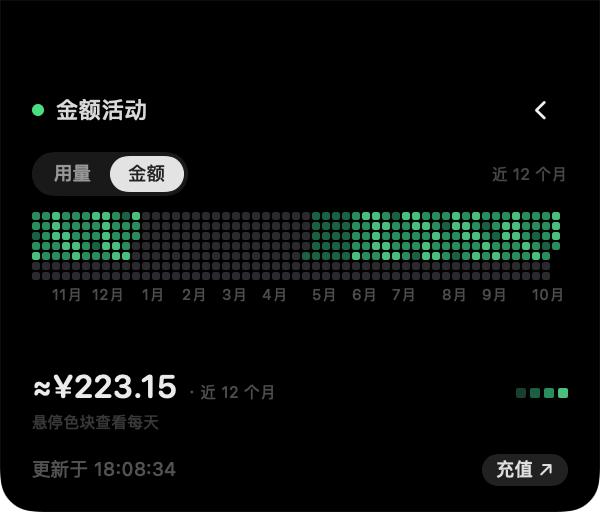
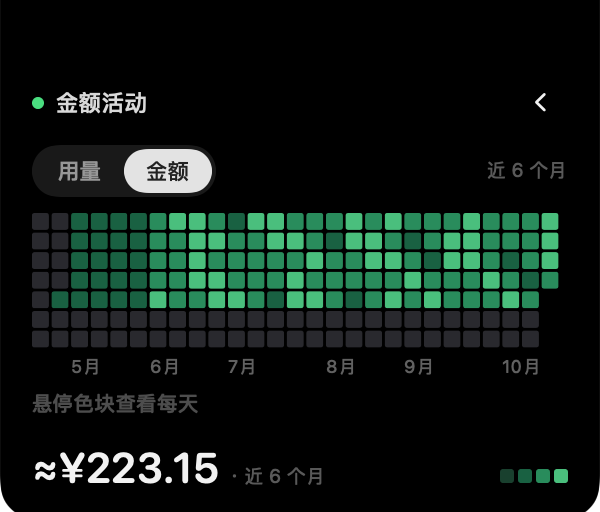
ui: 日历改为近 6 个月（27 周）+ 更大字号，修复底部溢出

diff --git a/Sources/Views.swift b/Sources/Views.swift
@@ -237,8 +237,12 @@ struct BalanceCard: View {
             } else {
                 balanceBody
             }
-            Spacer(minLength: 6)
-            footer
+            if state.showCalendar {
+                Spacer(minLength: 0)
+            } else {
+                Spacer(minLength: 6)
+                footer
+            }
         }
         .padding(.horizontal, 16)
         .padding(.top, chrome.topInset + 10)
@@ -301,9 +305,9 @@ struct BalanceCard: View {
             HStack(spacing: 6) {
                 metricToggle
                 Spacer(minLength: 0)
-                Text("近 12 个月")
-                    .font(.system(size: 8))
-                    .foregroundStyle(.white.opacity(0.28))
+                Text("近 6 个月")
+                    .font(.system(size: 9.5))
+                    .foregroundStyle(.white.opacity(0.35))
             }
             .padding(.top, 8)
 
@@ -313,20 +317,15 @@ struct BalanceCard: View {
 
                 HStack(alignment: .firstTextBaseline, spacing: 5) {
                     Text(activityTotalText(activity))
-                        .font(.system(size: 16, weight: .semibold, design: .rounded))
-                        .foregroundStyle(.white.opacity(0.92))
-                    Text(state.calendarMetric == .tokens ? "tokens · 近 12 个月" : "· 近 12 个月")
-                        .font(.system(size: 8))
-                        .foregroundStyle(.white.opacity(0.30))
+                        .font(.system(size: 21, weight: .semibold, design: .rounded))
+                        .foregroundStyle(.white.opacity(0.95))
+                    Text(state.calendarMetric == .tokens ? "tokens · 近 6 个月" : "· 近 6 个月")
+                        .font(.system(size: 9.5))
+                        .foregroundStyle(.white.opacity(0.35))
                     Spacer(minLength: 4)
                     activityLegend
                 }
                 .padding(.top, 10)
-
-                Text("悬停色块查看每天")
-                    .font(.system(size: 8))
-                    .foregroundStyle(.white.opacity(0.22))
-                    .padding(.top, 3)
             } else {
                 Text("还没有用量数据")
                     .font(.system(size: 10.5))
@@ -347,12 +346,12 @@ struct BalanceCard: View {
                     actions.selectMetric(metric)
                 } label: {
                     Text(metric.label)
-                        .font(.system(size: 9.5, weight: .medium))
+                        .font(.system(size: 11, weight: .medium))
                         .foregroundStyle(metric == state.calendarMetric
                                          ? Color.black.opacity(0.85)
                                          : Color.white.opacity(0.55))
-                        .padding(.horizontal, 9)
-                        .padding(.vertical, 3)
+                        .padding(.horizontal, 11)
+                        .padding(.vertical, 4)
                         .background(Capsule().fill(metric == state.calendarMetric
                                                    ? Color.white.opacity(0.88)
                                                    : Color.clear))
@@ -376,9 +375,9 @@ struct BalanceCard: View {
     private var activityLegend: some View {
         HStack(spacing: 2) {
             ForEach(1...4, id: \.self) { level in
-                RoundedRectangle(cornerRadius: 1)
+                RoundedRectangle(cornerRadius: 1.5)
                     .fill(TokenActivityCalendar.color(level: level, metric: state.calendarMetric))
-                    .frame(width: 5, height: 5)
+                    .frame(width: 7, height: 7)
             }
         }
     }
@@ -712,8 +711,8 @@ private struct CalendarHeatmapView: View {
 
     @State private var hovered: HoveredCell?
 
-    private let cellSize: CGFloat = 4.4
-    private let gap: CGFloat = 0.6
+    private let cellSize: CGFloat = 8.4
+    private let gap: CGFloat = 1.4
     private var pitch: CGFloat { cellSize + gap }
     private var gridWidth: CGFloat { CGFloat(ActivityCalendar.weeks) * pitch - gap }
     private var gridHeight: CGFloat { CGFloat(ActivityCalendar.daysPerWeek) * pitch - gap }
@@ -769,32 +768,22 @@ private struct CalendarHeatmapView: View {
 
             ForEach(calendar.monthLabels) { label in
                 Text(label.label)
-                    .font(.system(size: 7.5))
-                    .foregroundStyle(.white.opacity(0.30))
-                    .offset(x: CGFloat(label.column) * pitch, y: gridHeight + 3)
+                    .font(.system(size: 9))
+                    .foregroundStyle(.white.opacity(0.38))
+                    .offset(x: CGFloat(label.column) * pitch, y: gridHeight + 4)
             }
 
-            if let hovered {
-                Text(TokenActivityCalendar.hoverText(for: hovered.cell, metric: metric))
-                    .font(.system(size: 9, weight: .medium))
-                    .foregroundStyle(.white.opacity(0.95))
-                    .fixedSize()
-                    .padding(.horizontal, 6)
-                    .padding(.vertical, 3)
-                    .background(
-                        Capsule()
-                            .fill(Color.black.opacity(0.92))
-                            .overlay(Capsule().stroke(Color.white.opacity(0.18), lineWidth: 0.5))
-                    )
-                    .offset(x: tooltipX(for: hovered), y: gridHeight + 14)
-            }
+            // 悬停详情放在色块下方固定一行：卡片太小，浮层气泡会盖住数字。
+            Text(hovered.map { TokenActivityCalendar.hoverText(for: $0.cell, metric: metric) }
+                 ?? "悬停色块查看每天")
+                .font(.system(size: 10.5, weight: .medium))
+                .foregroundStyle(.white.opacity(hovered == nil ? 0.30 : 0.92))
+                .lineLimit(1)
+                .truncationMode(.tail)
+                .frame(width: gridWidth, alignment: .leading)
+                .offset(y: gridHeight + 22)
         }
-        .frame(width: gridWidth, height: gridHeight + 34, alignment: .topLeading)
-    }
-
-    private func tooltipX(for hovered: HoveredCell) -> CGFloat {
-        let center = CGFloat(hovered.column) * pitch
-        return min(max(center - 48, 0), max(0, gridWidth - 132))
+        .frame(width: gridWidth, height: gridHeight + 38, alignment: .topLeading)
     }
 }
 

diff --git a/Sources/TokenActivity.swift b/Sources/TokenActivity.swift
@@ -82,9 +82,12 @@ struct MonthLabel: Equatable, Identifiable {
     var id: Int { column }
 }
 
-/// 日历网格（53 列 × 7 行，周一开头，最后一列包含今天）。
+/// 日历网格（27 列 × 7 行，周一开头，最后一列包含今天）。
+///
+/// 卡片只有 300×256，53 周的格子会缩到 4pt、字也挤成一团；这里只展示最近
+/// 6 个月（27 周），每格可以放到 ~8.4pt，数字和月份标签才看得清。
 struct ActivityCalendar: Equatable {
-    static let weeks = 53
+    static let weeks = 27
     static let daysPerWeek = 7
 
     /// columns[col][row]

diff --git a/Sources/main.swift b/Sources/main.swift
@@ -1098,7 +1098,7 @@ func runCalendarCheck() -> Int32 {
     )
     check(
         "日历：月份标签数量合理",
-        (10...14).contains(calendar.monthLabels.count),
+        (5...7).contains(calendar.monthLabels.count),
         "\(calendar.monthLabels.count) 个",
     )
 

diff --git a/docs/token-activity.md b/docs/token-activity.md
@@ -1,6 +1,6 @@
 # Token 用量日历（token activity）
 
-DSHNotch 卡片里的「用量日历」：按天展示近 12 个月消耗的 token 或预估金额，
+DSHNotch 卡片里的「用量日历」：按天展示近 6 个月消耗的 token 或预估金额（快照仍保留 371 天，客户端展示最近 27 周），
 支持鼠标悬停查看每天的具体数值。
 
 ## 数据从哪来
@@ -54,9 +54,9 @@ DSH 没有「每日用量」接口，但每个会话日志里都有 `assistant/m
 
 - 卡片标题栏新增日历按钮，点击切换到日历页；再点左上角返回
 - 日历页顶部「用量 / 金额」切换：token 用紫色系，金额用绿色系
-- 53 列 × 7 行热力格（周一开头），月份标签在下方
-- 鼠标悬停色块：白框高亮 + 显示「10月21日 · 1.24M tokens / ≈¥0.42」
-- 底部显示近 12 个月合计；没有数据时显示占位提示
+- 27 列 × 7 行热力格（周一开头，约 6 个月），月份标签在下方
+- 鼠标悬停色块：白框高亮 + 色块下方固定一行显示「10月21日 · 1.24M tokens / ≈¥0.42」
+- 底部显示近 6 个月合计；没有数据时显示占位提示
 
 ## 验收
 

diff --git a/windows/README.md b/windows/README.md
@@ -124,7 +124,7 @@ Get-Content "$env:USERPROFILE\.dsh\notch\session-cost.json"
 ## Token 用量日历（v1.2.0+）
 
 卡片标题栏的「日历」按钮切到用量日历页：53 列 × 7 行热力格（周一开头），
-按天展示近 12 个月用了多少 token 或预估金额。数据同样由 DSH 插件写到本地，
+按天展示近 6 个月用了多少 token 或预估金额。数据同样由 DSH 插件写到本地，
 本应用**只读、不发网络请求**：
 
 ```
@@ -140,7 +140,7 @@ Get-Content "$env:USERPROFILE\.dsh\notch\session-cost.json"
   0 表示当天没有数据；
 - 悬停色块：白框高亮，并在格下方显示「10月21日 · 1.24M tokens」或「10月21日 · ≈¥0.42」；
 - 下方月份标签（相邻太近时用更近的月份替换，避免重叠）；
-- 底部「近 12 个月合计」（token 用 1.24M / 13.46B 这类紧凑写法，金额 `≈¥12.34`）。
+- 底部「近 6 个月合计」（token 用 1.24M / 13.46B 这类紧凑写法，金额 `≈¥12.34`）。
 
 读取与降级：
 

diff --git a/README.md b/README.md
@@ -239,7 +239,7 @@ grep 通知 "$(node -e 'process.stdout.write(require("os").tmpdir())')/dsh-notch
 
 ### Token 用量日历
 
-卡片标题栏的日历按钮可以切到「用量日历」：近 12 个月的每日 token 用量，或切成金额
+卡片标题栏的日历按钮可以切到「用量日历」：近 6 个月的每日 token 用量，或切成金额
 （token 紫色、金额绿色），鼠标悬停色块查看当天具体数值。
 
 ![Token 用量日历](preview/calendar-tokens.png)

diff --git a/README.en.md b/README.en.md
@@ -252,7 +252,7 @@ grep 通知 "$(node -e 'process.stdout.write(require("os").tmpdir())')/dsh-notch
 
 ### Token activity calendar
 
-A calendar button in the card header opens a 12-month heatmap of daily token usage, or of
+A calendar button in the card header opens a 6-month heatmap of daily token usage, or of
 estimated cost (tokens are purple, money is green). Hover a cell to see that day's exact
 numbers.
 
